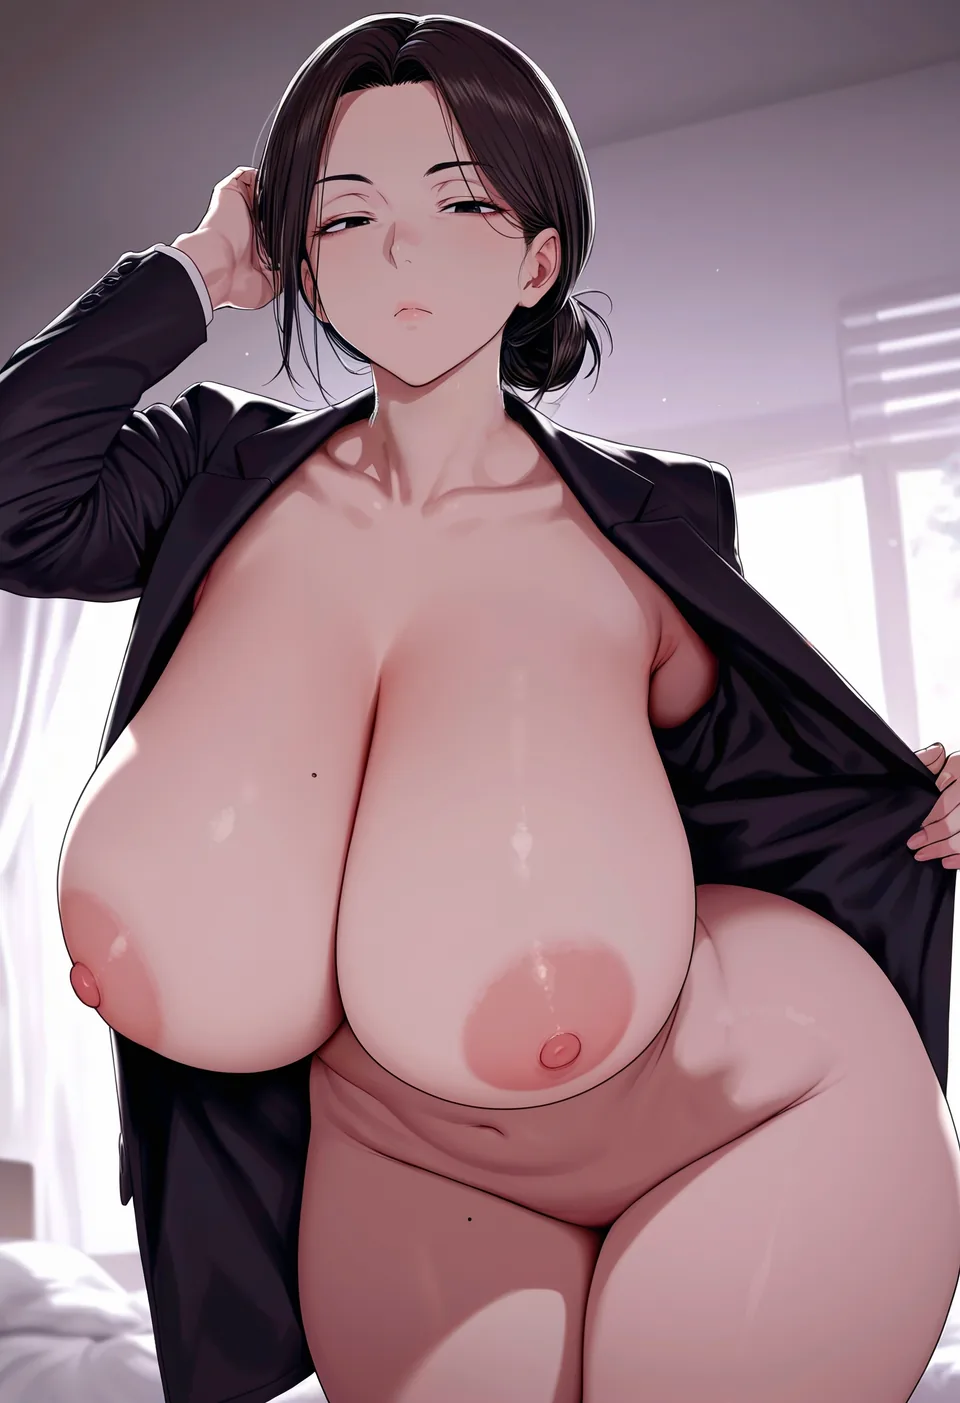
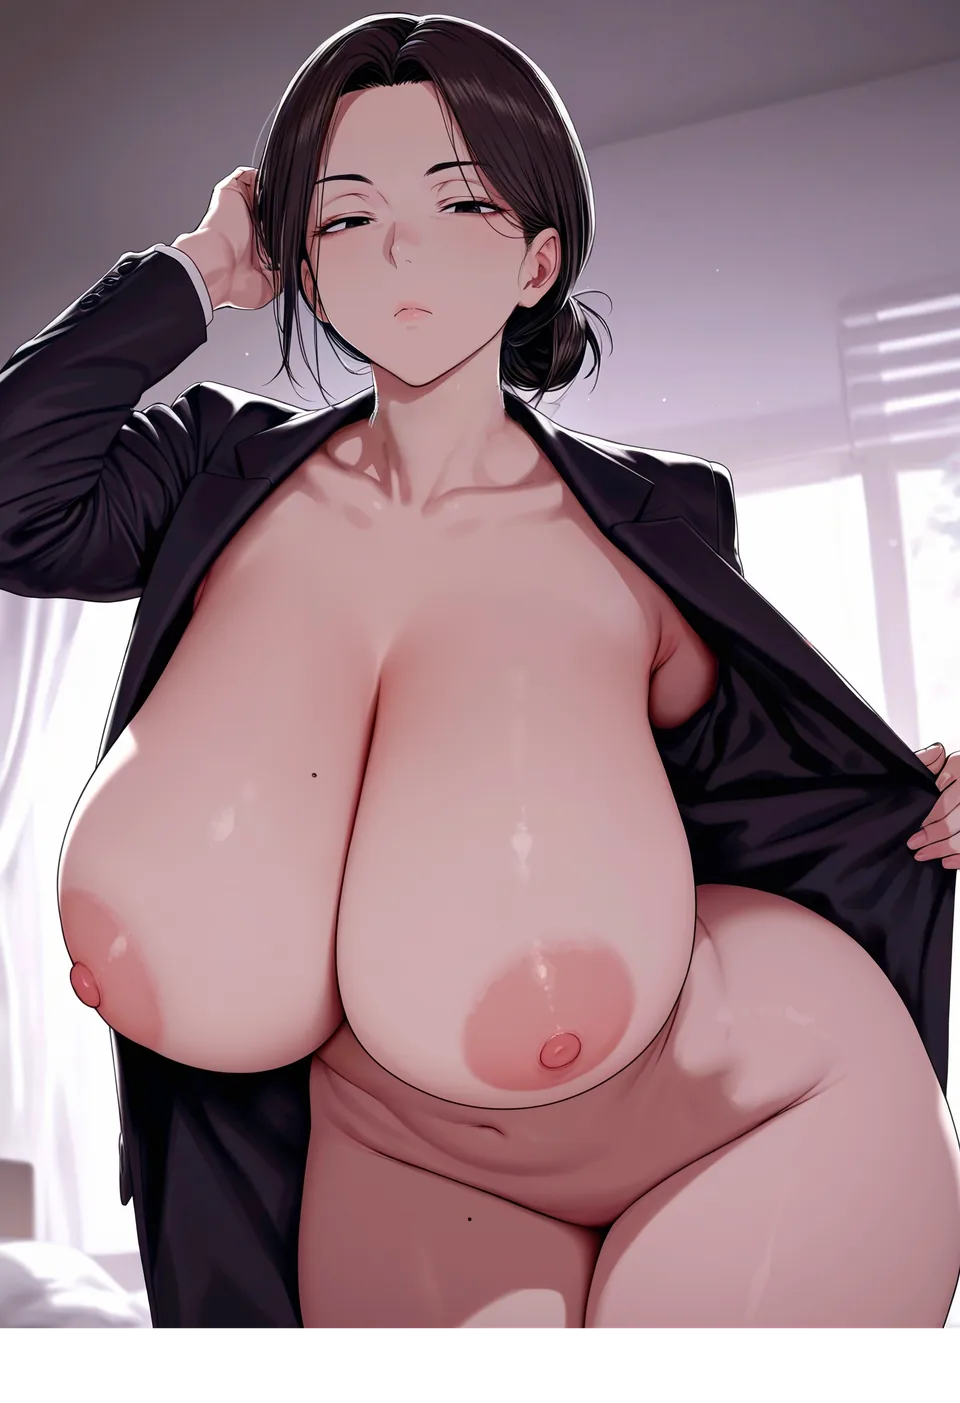
Bust preview cache after repairing truncated card images
Append an asset version query so browsers stop serving the old top-only Zhen Ji WebP.

Changed region(s): [[0.0, 0.9195, 1.0, 1.0]]

diff --git a/index.html b/index.html
@@ -1498,8 +1498,9 @@ footer::before{
 <div class="toast" id="toast" role="status" aria-live="polite" aria-atomic="true"></div>
 
 <script>
+const ASSET_VERSION="20260802c";
 const IMAGE_SOURCE="assets/source/wanwan.png";
-const IMAGE_PREVIEW="assets/previews/wanwan.webp";
+const IMAGE_PREVIEW=`assets/previews/wanwan.webp?v=${ASSET_VERSION}`;
 
 const works=[
   {
@@ -1600,7 +1601,8 @@ const tavoAssets=[
 function previewFor(image){
   return image
     .replace(/^assets\/tavo\//,"assets/previews/tavo/")
-    .replace(/\.png$/i,".webp");
+    .replace(/\.png$/i,".webp")
+    + `?v=${ASSET_VERSION}`;
 }
 
 const tavoWorks=tavoAssets.map(({image,period,label})=>{
